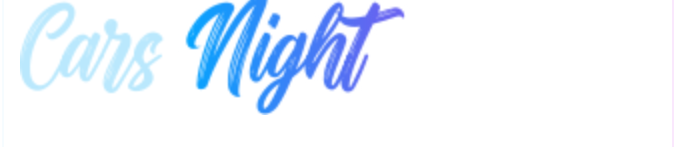
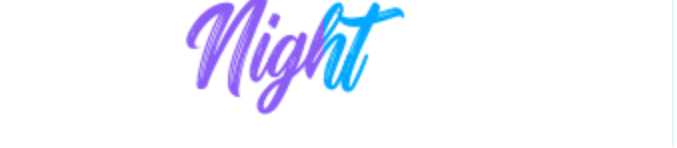
fix: wordmark — Cars=white, Night=purple→blue gradient (nig=purple, ht=blue); center nudge
1. Recolored wordmark per user spec:
   - 'Cars' → white (full opacity)
   - 'Night' → gradient: 'nig' (first ~60%) = purple/violet #8B5CF6, 'ht'
     (last ~40%) = blue #00A8FF, with a 10px smooth transition at the split
     so there's no hard color boundary.
   - Both brand-wordmark-light.png and brand-wordmark-dark.png are now
     identical (white Cars + gradient Night) — the user wants 'Cars' white
     on all backgrounds.

2. Vertically centered the wordmark in the navbar: added translate-y-[2px]
   to the wordmark span to compensate for the brush script's tall ascenders
   (C, N, h, t) which make the visual center appear slightly above the
   geometric center. The logo now sits in the middle of the navbar.

Changed region(s): [[0.031, 0.0, 0.6204, 0.7838], [0.9926, 0.0, 1.0, 1.0]]

diff --git a/src/components/brand-mark.tsx b/src/components/brand-mark.tsx
@@ -34,8 +34,10 @@ export function BrandMark({ className = "", size = "md", light = false }: BrandM
   return (
     <Link href="/" className={`flex items-center ${className}`} aria-label="Cars Night — home">
       {/* Brush-script "Cars Night" wordmark (from the user's reference image).
-          Two variants ensure it reads on both dark and light backgrounds. */}
-      <span className={`relative inline-flex ${wordmarkHeight} ${wordmarkWidth} items-center justify-center shrink-0`}>
+          Two variants ensure it reads on both dark and light backgrounds.
+          The translate-y-[2px] nudge compensates for the brush script's tall
+          ascenders which make the wordmark appear slightly above center. */}
+      <span className={`relative inline-flex ${wordmarkHeight} ${wordmarkWidth} items-center justify-center shrink-0 translate-y-[2px]`}>
         <Image
           src={wordmarkSrc}
           alt="Cars Night — luxury car marketplace"
